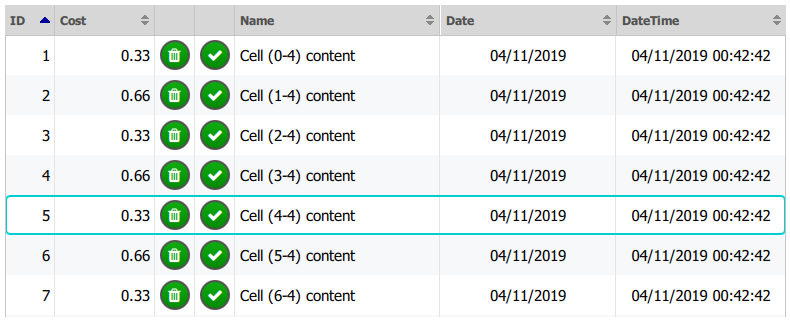
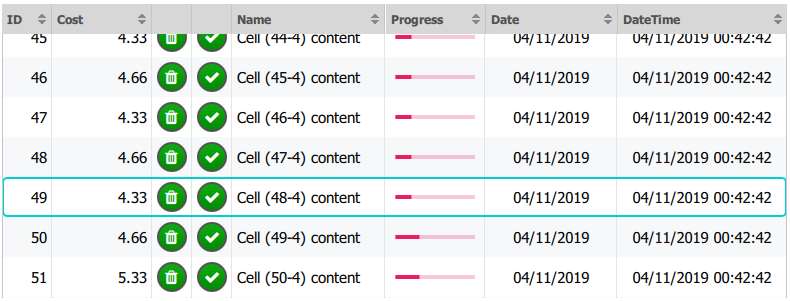
add dateFormat and dateTimeFormat

diff --git a/examples/fromDb/main.qml b/examples/fromDb/main.qml
@@ -27,7 +27,7 @@ Window {
                 text: "fillDb"
                 onPressed: {
                     bGrid.fillFromQuery( workDb,
-                                        "select col1,col6,col2,col3,col4,col8,col9 from table1 where col1>=? and col1<?",
+                                        "select col1,col6,col2,col3,col4,round( (col1 / 200.0) * 10 ) * 10 ,col8,col9 from table1 where col1>=? and col1<?",
                                         [0, 150]
                     );
                 }
@@ -50,6 +50,7 @@ Window {
             Layout.fillHeight: true
 
             dataHeight: 40
+            dateFormat: "MMM yyyy"
 
             Component {
                 id: cellDelegate
@@ -68,6 +69,15 @@ Window {
                     ButtonAction {
                         visible: view === Enums.CellView.CommandButton
                         commandId: command
+                    }
+
+                    ProgressBar {
+                        visible: view === Enums.CellView.ProgressView
+                        anchors.centerIn: parent
+                        width: 80
+                        from: 0
+                        to: 100
+                        value: dataType === BppTableModel.Int ? display : 0
                     }
 
                     CellSeparator{
@@ -94,6 +104,7 @@ Window {
                 { width: 40, title: "", sort: 4, view: Enums.CellView.CommandButton, command: Enums.Commands.DoCmd1 },
                 { width: 40, title: "", sort: 4, view: Enums.CellView.CommandButton, command: Enums.Commands.DoCmd2 },
                 { minWidth: 140, title: "Name", role: "name" },
+                { title: "Progress", dataType: BppTableModel.Int , view: Enums.CellView.ProgressView },
                 { minWidth: 120, title: "Date", dataType: BppTableModel.Date, role: "dt" },
                 { width: 170, title: "DateTime", dataType: BppTableModel.DateTime, role: "dtt" }
              ]

diff --git a/bppgrid/CompGrid.qml b/bppgrid/CompGrid.qml
@@ -17,6 +17,9 @@ Item {
     property color headingsSortColor: "#000099"
     property color headingsNoSortColor: "#888888"
 
+    property string dateFormat: "dd/MM/yyyy"
+    property string dateTimeFormat: "dd/MM/yyyy HH:mm:ss"
+
     property var columns: null;
     property var cellDelegate: null
     property int selectedRow: -1
@@ -62,9 +65,9 @@ Item {
         if( dataType === BppTableModel.Dbl )
             return display.toFixed(decimals);
         if( dataType === BppTableModel.Date )
-            return Qt.formatDate(display, "dd/MM/yyyy");
+            return Qt.formatDate(display, dateFormat);
         if( dataType === BppTableModel.DateTime )
-            return Qt.formatDateTime(display, "dd/MM/yyyy HH:mm:ss");
+            return Qt.formatDateTime(display, dateTimeFormat);
 
         return display;
     }

diff --git a/examples/fromDb/Enums.qml b/examples/fromDb/Enums.qml
@@ -4,7 +4,7 @@ Item {
     enum CellView {
         SimpleText = 0,
         CommandButton,
-        NumberText
+        ProgressView
     }
 
     enum Commands {
